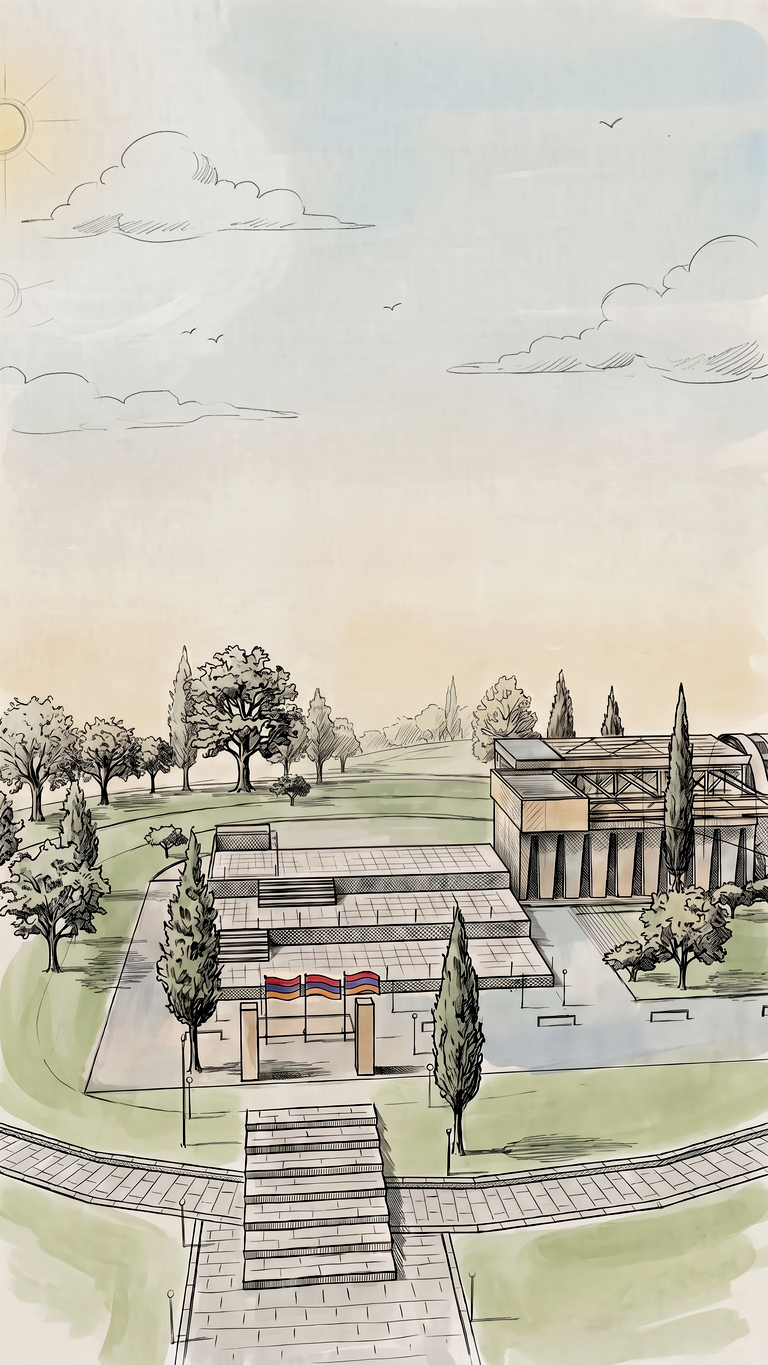
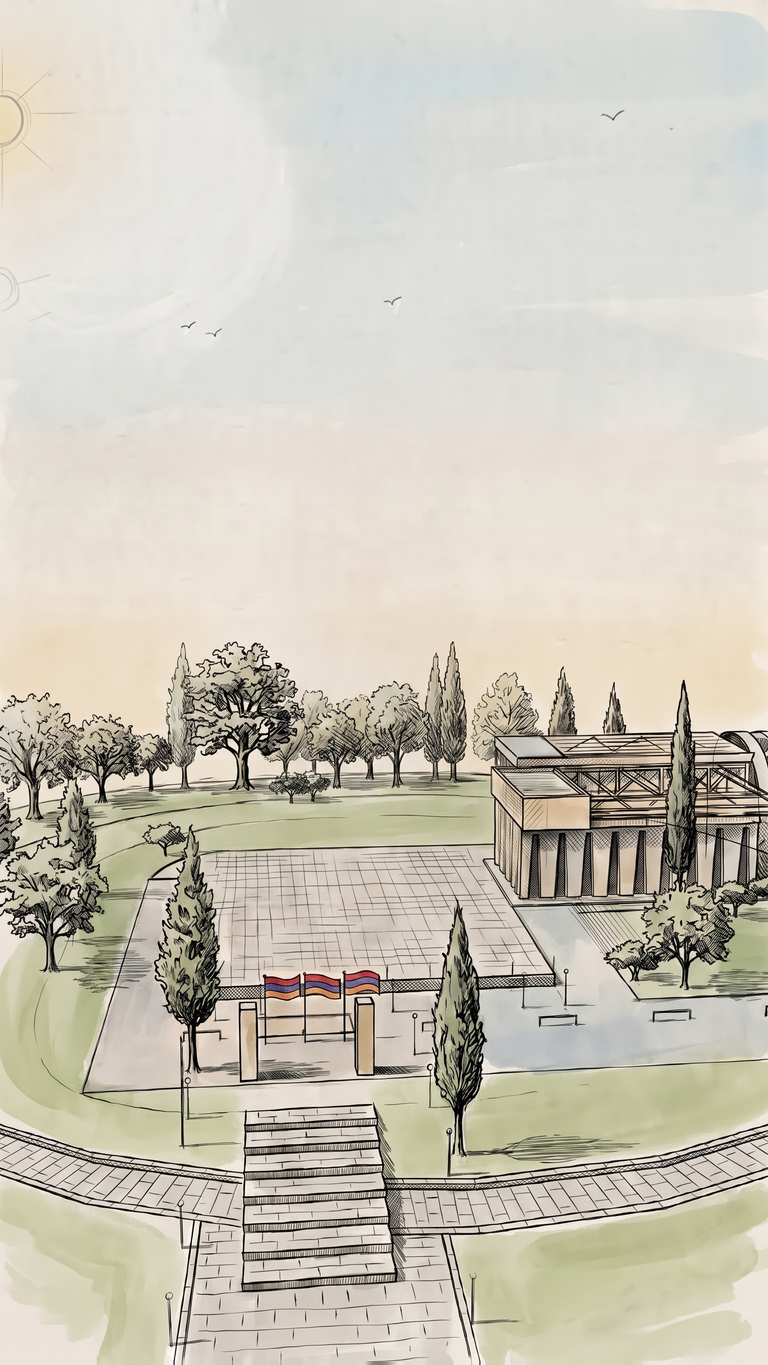
test: v10 — подложки и ночные кадры от Nano Banana, Noto Serif, приветствие/загрузка при медленной сети, шторка, нижняя полоса, бумажные стрелки

diff --git a/test-assets/depth.html b/test-assets/depth.html
@@ -525,12 +525,12 @@ var CONFIG = {
   // для отката, если у браузера нет WebGL.
   FRAMES: [
     /* FRAMES:START */
-    { color: 'frames/v_angle_0.png', depth: 'frames/v_angle_0_depth.png', bg: { color: 'frames/v_angle_0_bg.png', depth: 'frames/v_angle_0_bg_depth.png' }, building: { color: 'frames/v_angle_0_building.png', depth: 'frames/v_angle_0_depth.png' }, env: 'frames/v_angle_0_env.png', win2: 'frames/v_angle_0_win2.png' },
-    { color: 'frames/v_angle_1.png', depth: 'frames/v_angle_1_depth.png', bg: { color: 'frames/v_angle_1_bg.png', depth: 'frames/v_angle_1_bg_depth.png' }, building: { color: 'frames/v_angle_1_building.png', depth: 'frames/v_angle_1_depth.png' }, env: 'frames/v_angle_1_env.png', win2: 'frames/v_angle_1_win2.png' },
-    { color: 'frames/v_angle_2.png', depth: 'frames/v_angle_2_depth.png', bg: { color: 'frames/v_angle_2_bg.png', depth: 'frames/v_angle_2_bg_depth.png' }, building: { color: 'frames/v_angle_2_building.png', depth: 'frames/v_angle_2_depth.png' }, env: 'frames/v_angle_2_env.png', win2: 'frames/v_angle_2_win2.png' },
-    { color: 'frames/v_angle_3.png', depth: 'frames/v_angle_3_depth.png', bg: { color: 'frames/v_angle_3_bg.png', depth: 'frames/v_angle_3_bg_depth.png' }, building: { color: 'frames/v_angle_3_building.png', depth: 'frames/v_angle_3_depth.png' }, env: 'frames/v_angle_3_env.png', win2: 'frames/v_angle_3_win2.png' },
-    { color: 'frames/v_angle_4.png', depth: 'frames/v_angle_4_depth.png', bg: { color: 'frames/v_angle_4_bg.png', depth: 'frames/v_angle_4_bg_depth.png' }, building: { color: 'frames/v_angle_4_building.png', depth: 'frames/v_angle_4_depth.png' }, env: 'frames/v_angle_4_env.png', win2: 'frames/v_angle_4_win2.png' },
-    { color: 'frames/v_angle_5.png', depth: 'frames/v_angle_5_depth.png', bg: { color: 'frames/v_angle_5_bg.png', depth: 'frames/v_angle_5_bg_depth.png' }, building: { color: 'frames/v_angle_5_building.png', depth: 'frames/v_angle_5_depth.png' }, env: 'frames/v_angle_5_env.png', win2: 'frames/v_angle_5_win2.png' },
+    { color: 'frames/v_angle_0.png', depth: 'frames/v_angle_0_depth.png', bg: { color: 'frames/v_angle_0_bg.png', depth: 'frames/v_angle_0_bg_depth.png' }, building: { color: 'frames/v_angle_0_building.png', depth: 'frames/v_angle_0_depth.png' }, env: 'frames/v_angle_0_env.png', win2: 'frames/v_angle_0_win2.png', night: 'frames/v_angle_0_night.png' },
+    { color: 'frames/v_angle_1.png', depth: 'frames/v_angle_1_depth.png', bg: { color: 'frames/v_angle_1_bg.png', depth: 'frames/v_angle_1_bg_depth.png' }, building: { color: 'frames/v_angle_1_building.png', depth: 'frames/v_angle_1_depth.png' }, env: 'frames/v_angle_1_env.png', win2: 'frames/v_angle_1_win2.png', night: 'frames/v_angle_1_night.png' },
+    { color: 'frames/v_angle_2.png', depth: 'frames/v_angle_2_depth.png', bg: { color: 'frames/v_angle_2_bg.png', depth: 'frames/v_angle_2_bg_depth.png' }, building: { color: 'frames/v_angle_2_building.png', depth: 'frames/v_angle_2_depth.png' }, env: 'frames/v_angle_2_env.png', win2: 'frames/v_angle_2_win2.png', night: 'frames/v_angle_2_night.png' },
+    { color: 'frames/v_angle_3.png', depth: 'frames/v_angle_3_depth.png', bg: { color: 'frames/v_angle_3_bg.png', depth: 'frames/v_angle_3_bg_depth.png' }, building: { color: 'frames/v_angle_3_building.png', depth: 'frames/v_angle_3_depth.png' }, env: 'frames/v_angle_3_env.png', win2: 'frames/v_angle_3_win2.png', night: 'frames/v_angle_3_night.png' },
+    { color: 'frames/v_angle_4.png', depth: 'frames/v_angle_4_depth.png', bg: { color: 'frames/v_angle_4_bg.png', depth: 'frames/v_angle_4_bg_depth.png' }, building: { color: 'frames/v_angle_4_building.png', depth: 'frames/v_angle_4_depth.png' }, env: 'frames/v_angle_4_env.png', win2: 'frames/v_angle_4_win2.png', night: 'frames/v_angle_4_night.png' },
+    { color: 'frames/v_angle_5.png', depth: 'frames/v_angle_5_depth.png', bg: { color: 'frames/v_angle_5_bg.png', depth: 'frames/v_angle_5_bg_depth.png' }, building: { color: 'frames/v_angle_5_building.png', depth: 'frames/v_angle_5_depth.png' }, env: 'frames/v_angle_5_env.png', win2: 'frames/v_angle_5_win2.png', night: 'frames/v_angle_5_night.png' },
     /* FRAMES:END */
   ],
 
@@ -575,8 +575,15 @@ var CONFIG = {
   ],
 
   // Фонари ночных кадров-картинок (v10): ореолы ставим на фонари, нарисованные на ночном кадре. Формат тот же.
-  // Пусто — у кадра нет ночной картинки или на ней нет фонарей (тогда работают LAMPS v8 ниже).
-  NIGHT_LAMPS: [[], [], [], [], [], []],
+  // Найдены по ночным картинкам (головы фонарей и основания столбов). Пусто — на ночной картинке нет фонарей (тогда LAMPS v8).
+  NIGHT_LAMPS: [
+    [[0.854, 0.577, 0.854, 0.608], [0.939, 0.588, 0.939, 0.619], [0.134, 0.773, 0.134, 0.839], [0.951, 0.763, 0.951, 0.828], [0.681, 0.79, 0.681, 0.853]],  // v_angle_0
+    [[0.681, 0.558, 0.681, 0.582], [0.814, 0.577, 0.814, 0.602], [0.189, 0.576, 0.189, 0.597], [0.076, 0.822, 0.076, 0.89], [0.417, 0.845, 0.417, 0.916], [0.635, 0.841, 0.635, 0.908], [0.935, 0.817, 0.935, 0.886]],  // v_angle_1
+    [[0.133, 0.748, 0.133, 0.766], [0.245, 0.793, 0.245, 0.823], [0.229, 0.886, 0.229, 0.916], [0.223, 0.952, 0.223, 0.982], [0.616, 0.935, 0.616, 0.965], [0.585, 0.829, 0.585, 0.859], [0.737, 0.711, 0.737, 0.729], [0.197, 0.63, 0.197, 0.648]],  // v_angle_2
+    [[0.684, 0.548, 0.684, 0.593], [0.215, 0.549, 0.215, 0.59], [0.849, 0.555, 0.849, 0.579], [0.022, 0.569, 0.022, 0.61], [0.749, 0.674, 0.749, 0.736], [0.12, 0.795, 0.12, 0.897], [0.59, 0.769, 0.59, 0.853], [0.879, 0.793, 0.879, 0.897]],  // v_angle_3
+    [[0.302, 0.495, 0.302, 0.531], [0.44, 0.775, 0.44, 0.786], [0.474, 0.811, 0.474, 0.822], [0.609, 0.812, 0.609, 0.823], [0.335, 0.815, 0.335, 0.826], [0.785, 0.797, 0.785, 0.808], [0.921, 0.812, 0.921, 0.823], [0.066, 0.876, 0.066, 0.905]],  // v_angle_4
+    [[0.589, 0.929, 0.589, 0.963], [0.794, 0.925, 0.794, 0.96], [0.742, 0.916, 0.742, 0.94]],  // v_angle_5
+  ],
 
   // Фонари v8 (ночь без картинки, откат): по кадрам, [u, v лампы, u, v основания столба] в долях кадра (768×1365).
   // Найдены по рисунку глазами; на кадрах 0, 1, 3 фонарей в рисунке нет.

diff --git a/tools/gemini_intake.py b/tools/gemini_intake.py
@@ -3,6 +3,7 @@
 
   python3 tools/gemini_intake.py plate 0 путь/к/картинке.jpeg     # -> проверка + test-assets/frames/v_angle_0_plate_candidate.png
   python3 tools/gemini_intake.py night 0 путь/к/картинке.jpeg
+  python3 tools/gemini_intake.py finalize 0 1 2 3 4 5    # принятые кандидаты -> _bg.png / _night.png (с выравниванием)
 
 Что делает
   1. Приводит картинку к размеру кадра (768×1365), если пропорции те же (иначе сообщает и обрезает по центру).
@@ -92,5 +93,52 @@ def main():
         return 0
 
 
+def best_shift(day, cand, rng=8):
+    """Целочисленный сдвиг (dx, dy), при котором контуры кандидата лучше всего ложатся на контуры дня."""
+    def edges(a):
+        g = ndimage.gaussian_filter(lum(a), 1.2)
+        e = np.hypot(ndimage.sobel(g, 0), ndimage.sobel(g, 1))
+        return e > np.percentile(e, 92)
+    td, tn = edges(day), ndimage.binary_dilation(edges(cand), iterations=1)
+    best = (-1, 0, 0)
+    for dy in range(-rng, rng + 1):
+        for dx in range(-rng, rng + 1):
+            sh = np.roll(np.roll(tn, dy, 0), dx, 1)
+            sc = (td & sh).sum()
+            if sc > best[0]:
+                best = (sc, dx, dy)
+    return best[1], best[2]
+
+
+def shift_img(a, dx, dy):
+    """Сдвиг с повтором краевых пикселей (без чёрных полос)."""
+    h, w = a.shape[:2]
+    pad = max(abs(dx), abs(dy)) + 1
+    p = np.pad(a, ((pad, pad), (pad, pad), (0, 0)), mode='edge')
+    return p[pad - dy:pad - dy + h, pad - dx:pad - dx + w]
+
+
+def finalize(idx):
+    """Кандидат -> рабочий файл: подложка кладётся как <имя>_bg.png (старая версия — в истории git), ночь — <имя>_night.png.
+    Перед этим кандидат выравнивается по дню (целый сдвиг до ±8 px)."""
+    name = f'v_angle_{idx}'
+    day = np.array(Image.open(FR / f'{name}.png').convert('RGB')).astype(np.float32) / 255
+    for mode, dst in (('plate', f'{name}_bg.png'), ('night', f'{name}_night.png')):
+        cf = FR / f'{name}_{mode}_candidate.png'
+        if not cf.exists():
+            continue
+        cand = np.array(Image.open(cf).convert('RGB')).astype(np.float32) / 255
+        dx, dy = best_shift(day, cand)
+        if dx or dy:
+            cand = shift_img(cand, dx, dy)
+        Image.fromarray((np.clip(cand, 0, 1) * 255).astype(np.uint8)).save(FR / dst, optimize=True)
+        cf.unlink()
+        print(f'{name}: {mode} -> {dst} (сдвиг dx={dx}, dy={dy})')
+
+
 if __name__ == '__main__':
+    if sys.argv[1] == 'finalize':
+        for a in sys.argv[2:]:
+            finalize(int(a))
+        raise SystemExit(0)
     raise SystemExit(main())

diff --git a/tools/build_frames.py b/tools/build_frames.py
@@ -212,11 +212,12 @@ def update_config_frames(names):
     lines = []
     for name in names:
         lines.append(
-            "    { color: %r, depth: %r, bg: { color: %r, depth: %r }, building: { color: %r, depth: %r }, env: %r, win2: %r },"
+            "    { color: %r, depth: %r, bg: { color: %r, depth: %r }, building: { color: %r, depth: %r }, env: %r, win2: %r%s },"
             % ('frames/%s.png' % name, 'frames/%s_depth.png' % name,
                'frames/%s_bg.png' % name, 'frames/%s_bg_depth.png' % name,
                'frames/%s_building.png' % name, 'frames/%s_depth.png' % name,
-               'frames/%s_env.png' % name, 'frames/%s_win2.png' % name)
+               'frames/%s_env.png' % name, 'frames/%s_win2.png' % name,
+               (", night: %r" % ('frames/%s_night.png' % name)) if (FRAMES_DIR / ('%s_night.png' % name)).exists() else '')
         )
     body = '\n'.join(lines) + '\n'
     new_html = html[:si_line_end] + body + html[ei_line_start:]

diff --git a/docs/gemini-log.md b/docs/gemini-log.md
@@ -1,27 +1,26 @@
 # Nano Banana (Gemini Pro): подложки и ночь — журнал попыток (v10, пункты 6–7)
 
-Картинки генерировались через Claude in Chrome в Gemini (режим «Создание изображений», Pro, формат 9:16). Приёмка: `tools/gemini_intake.py`.
-Метрика подложки: средняя |Δ| по яркости (размытие 3 px) вне зоны здания (маска башни + 24 px + рамки пристроек), порог 3%; «новых объектов нет» — глазами по наложению `docs/_intake/*_plate_overlay.png`.
+Картинки генерировались через Claude in Chrome в Gemini (режим «Создание изображений», Pro, формат 9:16). Приёмка: `tools/gemini_intake.py`
+(`plate N файл` / `night N файл` — проверка, `finalize 0 1 2 3 4 5` — выравнивание по дню до ±8 px и запись в `_bg.png` / `_night.png`).
 
-## Подложки (кадр без башни и пристроек)
-| Кадр | Попытка | |Δ| вне здания | Результат |
+## Подложки (кадр без башни и пристроек) — порог: средняя |Δ| вне здания < 3%, новых объектов нет (по листу наложения)
+| Кадр | Попытка | \|Δ\| вне здания | Результат |
 |---|---|---|---|
-| 0 | 1 | 2.37% | не принято: появились новые холмы на горизонте |
-| 0 | 2 | 2.10% | ПРИНЯТА (башня и платформа убраны, ничего нового) |
-| 1 | 1 | 1.68% | ПРИНЯТА (башня и стеклянный зал убраны) |
-| 2 | 1 | 1.99% | ПРИНЯТА (башня и террасы убраны, флаги на месте) |
-| 3 | 1 | 14.37% | не принято: башня осталась, дорисован густой лес |
-| 3 | 2 | 2.02% | ПРИНЯТА (чистое небо и газон) |
-| 4 | 1 | 2.70% | ПРИНЯТА (башня убрана, лес продолжен) |
-| 5 | — | — | не делали |
+| 1 (v_angle_0) | 1 | 2.37% | не принято: появились новые холмы на горизонте |
+| 1 | 2 | 2.10% | ПРИНЯТА |
+| 2 (v_angle_1) | 1 | 1.68% | ПРИНЯТА |
+| 3 (v_angle_2) | 1 | 1.99% | ПРИНЯТА |
+| 4 (v_angle_3) | 1 | 14.37% | не принято: башня осталась, дорисован густой лес |
+| 4 | 2 | 2.02% | ПРИНЯТА |
+| 5 (v_angle_4) | 1 | 2.70% | ПРИНЯТА |
+| 6 (v_angle_5) | 1 | 2.88% | ПРИНЯТА |
 
-Кандидаты лежат в `test-assets/frames/v_angle_N_plate_candidate.png` (768×1365) — в конвейер пока НЕ подключены
-(подключение = заменить `<имя>_bg.png` и пересчитать `python3 tools/build_frames.py`).
-
-## Ночные кадры
-Не делали.
+## Ночные кадры — проверка: контуры дня на ночном кадре (лучший сдвиг ±8 px), окна светятся окнами, новых объектов нет
+Все шесть приняты с 1-й попытки. Контуры дня найдены на ночном кадре: кадр 1 — 99.7%, 2 — 99.4%, 3 — 99.5%, 4 — 99.8%, 5 — 97.7%, 6 — 86.2%
+(на кадре 6 ниже, потому что неосвещённые окна на ночном рисунке почти не видны; освещённые совпадают с дневными контурами по наложению).
+Общий сдвиг ночных картинок относительно дня: 1–3 px по вертикали, исправлен при `finalize`.
 
 ## Что помогает Nano Banana
-- Промпт «strict local inpainting of this ORIGINAL image… every other pixel must stay identical» + явное перечисление того, что убирать.
-- Без слов «trees behind it» — иначе дорисовывает лес.
-- Если в чате несколько картинок, файл надо прикреплять заново каждый раз и проверять миниатюру в поле ввода, иначе правит прошлый результат.
+- Промпт «strict local inpainting of this ORIGINAL image… every other pixel must stay identical» + явное перечисление того, что убирать; без слов «trees behind it» (иначе дорисовывает лес).
+- Файл нужно прикреплять заново каждый раз и проверять миниатюру в поле ввода, иначе правит прошлый результат.
+- В автоматизации: первый клик по «+» и по кнопкам часто только наводит курсор; перед поиском file input нужна пауза 2–3 с; сгенерированное изображение скачивается кнопкой в правом верхнем углу картинки (после наведения).

diff --git a/docs/LOG.md b/docs/LOG.md
@@ -1916,3 +1916,13 @@ Custom domain, сохранить, подождать минуту и вписа
 - п.6 Ночь: россыпь мелких тёплых и холодных огней окон группами в дальней зоне и на видимых зданиях (CONFIG.CITY; дальше — мельче и плотнее, часть мерцает очень медленно, зажигаются по одному со второй половины перехода); фонари на всех кадрах (4–8, CONFIG.LAMPS); тёплый отсвет города у горизонта; огоньки машин на дальней дороге кадра 5 (CONFIG.ROADS). Звёзды и падающие звёзды не менялись. Побочно: маска неба кадров 2 и 6 дополнена (tools/build_env_masks.py, SKY_PARAMS) — исчез жёсткий «прямоугольник» тёмного неба.
 - п.7 docs/night-sheet.png — все 6 кадров ночью в одной сетке (tools/night_sheet.mjs).
 - п.8 Бета обновлена, метка сборки «beta · v9». https://chka.am/beta/
+
+## Сессия 25.09.2026 — depth-photo v10 (ветка test/depth-photo, тег depth-photo-v10)
+Через safe-change (снимки «до» — тег v9, «после» — v10; отличия ожидаемые: шрифт, нижняя полоса, новые подложки под башней, ночь-картинки).
+- п.1 Шрифт: Noto Serif на hy/ru/en (латиница и кириллица — Noto Serif, армянский — Noto Serif Armenian, OFL), подключён локально (`test-assets/fonts/`, лицензия рядом). Рукопись (Caveat) и карандашные SVG-заголовки убраны на всех языках, `tools/build_hy_titles.py` заменён на `tools/build_welcome_letters.py` (только буквы для загрузки). `docs/font-sheet.png`.
+- п.2 Приветствие и загрузка: компонент создаётся в самом начале страницы (до вёрстки, скриптов и кадров); карандашные буквы Ա Բ Գ… толще и с бледным контуром-подсказкой, видны всё время загрузки. Проверено при Slow 3G (500 Кбит/с, 400 мс) на локальном gzip-сервере (`tools/dev_gzip_server.py`).
+- п.3 Шторка: отступы 32 px, содержимое по центру, макс. ширина 420 px. п.4 Нижняя полоса на телефоне (кнопка панели · название по языку · «домой»), сверху на картинке ничего. п.5 Стрелки ‹ › — бумажный круг, карандашный контур, hover/нажатие как у кнопок панели (ПК и телефон).
+- п.6 Подложки (кадр без башни и пристроек) от Nano Banana для всех 6 кадров — вместо старых `_bg.png`; под башней при сдвиге показывается подложка. Проверка: |Δ| вне здания < 3% (1.68–2.88%). Кадры 1 и 4 — со 2-й попытки, остальные с 1-й. Журнал: `docs/gemini-log.md`, `docs/plates-sheet.png`.
+- п.7 Ночь: процедурные огни v9 (город, машины, отсвет) убраны; для каждого из 6 кадров ночная картинка от Nano Banana (все с 1-й попытки), день растворяется в ночь 3 с, поверх звёзды, падающие звёзды и ореолы фонарей (CONFIG.NIGHT_LAMPS — координаты фонарей, нарисованных на ночных кадрах). Если у кадра нет ночной картинки или видеокарта даёт < 12 текстурных юнитов — ночь v8. `docs/night-sheet.png`.
+- п.8 «Կուկուռուզնիկ» на страницах сайта (index.html, kukuruznik/index.html, kukuruznik/history.html, assets/story.js) — только это.
+- п.9 Бета обновлена, метка «beta · v10». https://chka.am/beta/
